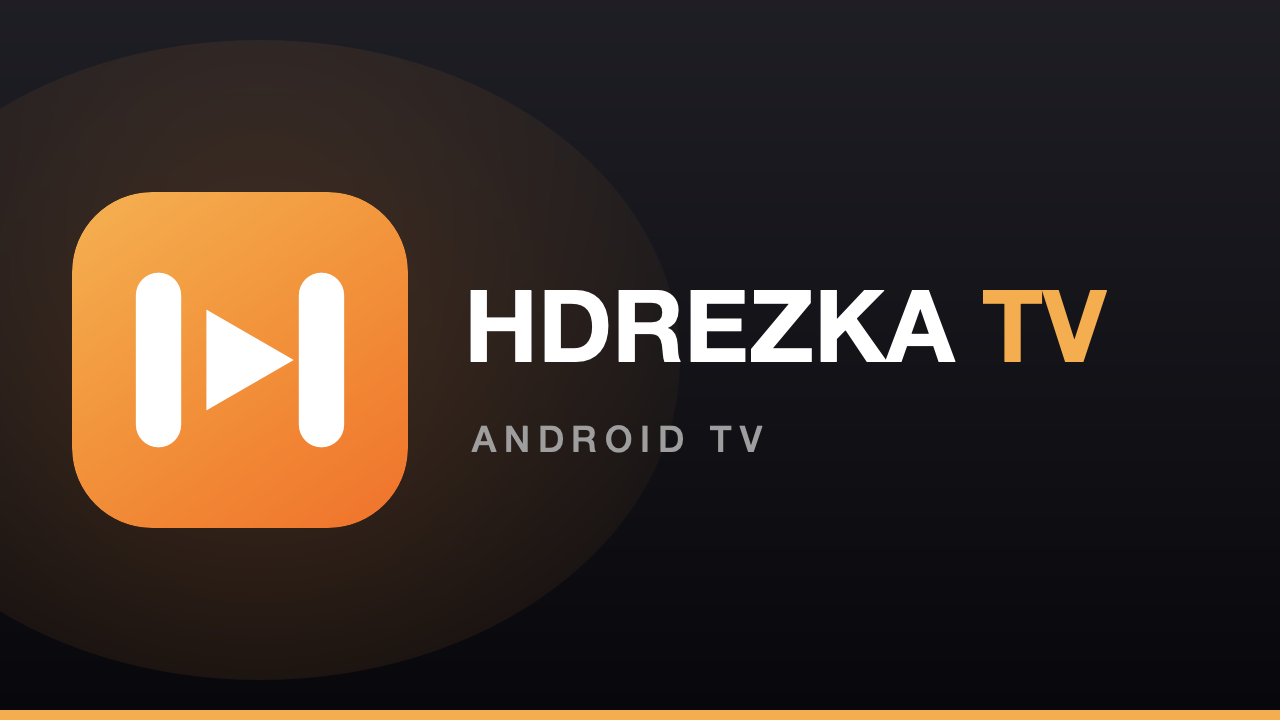
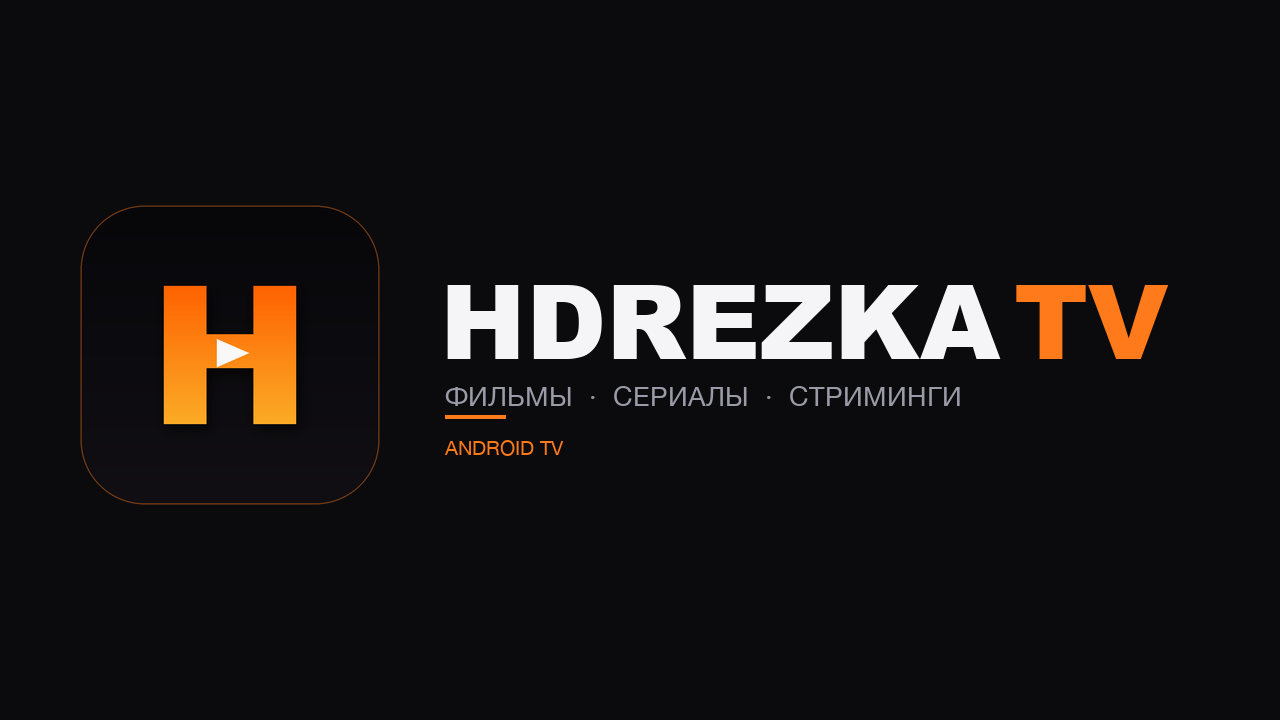
0.43.5 — новый фирменный стиль и иконка

diff --git a/docs/index.html b/docs/index.html
@@ -5,6 +5,8 @@
 <meta name="viewport" content="width=device-width, initial-scale=1">
 <title>HDrezka TV — кино на большом экране</title>
 <meta name="description" content="HDrezka TV — красивый клиент HDrezka для Android TV и Google TV.">
+<link rel="icon" href="assets/icon.png">
+<link rel="apple-touch-icon" href="assets/icon.png">
 <style>
 :root{--bg:#0b0b0e;--card:#15151b;--line:#292932;--text:#f5f5f7;--muted:#9b9ba7;--accent:#ff7a1a;--accent2:#ffb25e}
 *{box-sizing:border-box}html{scroll-behavior:smooth}

diff --git a/CHANGELOG.md b/CHANGELOG.md
@@ -1,5 +1,11 @@
 # История версий
 
+## 0.43.5 — 8 ноября 2026
+
+- Новый фирменный стиль: тёмная иконка с оранжевой «H» и play-кнопкой.
+- Обновлён TV-баннер и оформление на GitHub Pages.
+- Персональная сборка занимает место пользовательской в доке.
+
 ## 0.43.4 — 8 ноября 2026
 
 - Персональная сборка теперь ставится поверх пользовательской

diff --git a/README.md b/README.md
@@ -30,7 +30,7 @@
 2. Установите на Android TV через ADB:
 
 ```bash
-adb install -r HDRezkaTV-0.43.4.apk
+adb install -r HDRezkaTV-0.43.5.apk
 ```
 
 Или откройте APK через файловый менеджер на телевизоре.
